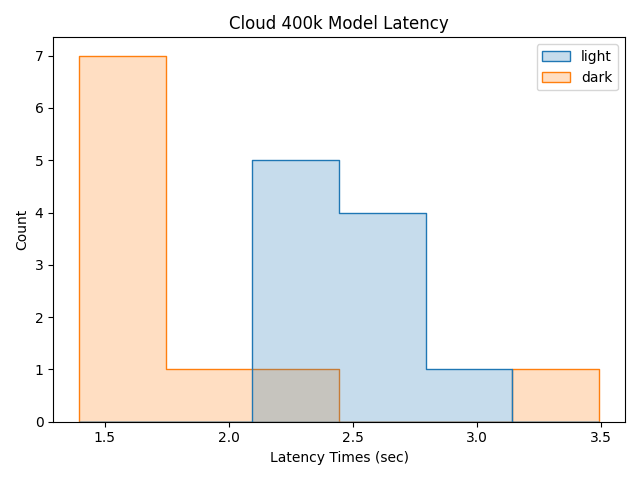
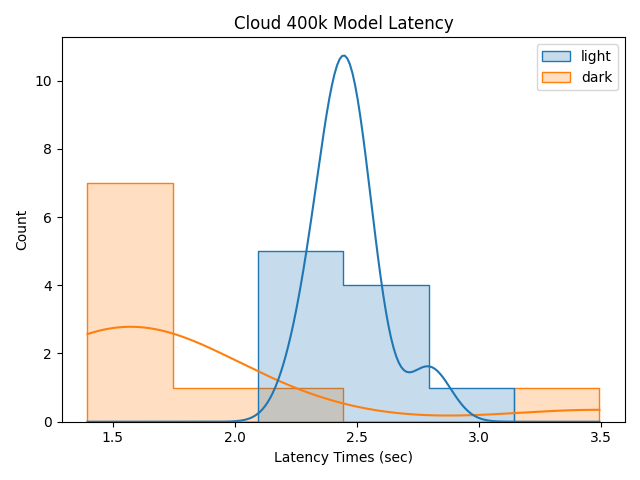
add pdf

Changed region(s): [[0.0625, 0.0938, 0.9375, 0.9688], [0.3438, 0.0312, 0.7188, 0.0625], [0.0625, 0.0938, 0.0938, 0.125]]

diff --git a/latency.py b/latency.py
@@ -29,7 +29,7 @@ def latency_calculations(dataset, title):
             f.write(f'std: {std}\n')
             f.write(f'throughput: {file_model_Mb[title] / mean}\n')
 
-    ax = sns.histplot(data=dataset, element='step')
+    ax = sns.histplot(data=dataset, element='step', kde=True)
     graph_title = f'{title} Model Latency'
     ax.set(xlabel='Latency Times (sec)', ylabel='Count', title=graph_title)
     plt.tight_layout()
